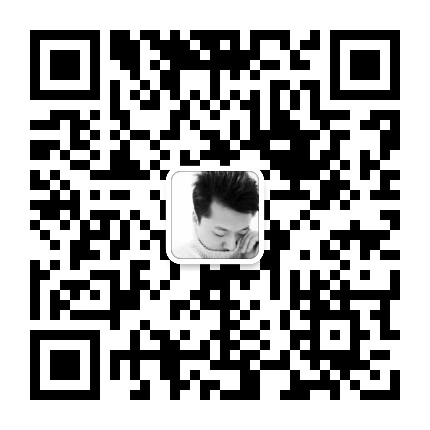
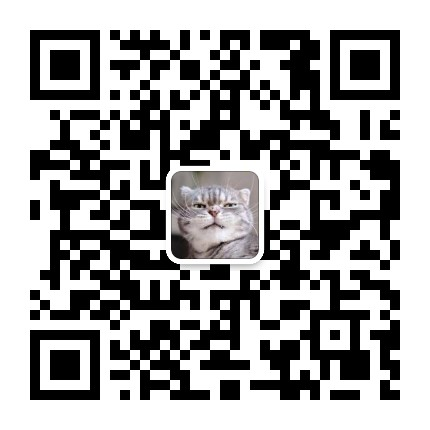
fix:头像和二维码图片修改

diff --git a/docs/.vuepress/components/Layout_Home.vue b/docs/.vuepress/components/Layout_Home.vue
@@ -18,7 +18,7 @@
 		//- a(href="http://github.com/lingzZ")
 		//- 	i.iconfont.icon-qq
 
-	p.about.animated.fadeInDown(style="animation-delay: .8s;") Zhang Ling,&nbsp;&nbsp;an Architect
+	p.about.animated.fadeInDown(style="animation-delay: .8s;") Ling Z,&nbsp;&nbsp;an Architect
 
 	.menu
 		a.animated(
@@ -97,6 +97,9 @@ a
 		background-size cover
 		border-radius 100%
 		box-shadow 0px 0px 10px 3px #ccc
+		&:hover
+			background url('/images/photo-hover.jpg') no-repeat center center
+			background-size cover
 
 // about
 .about
